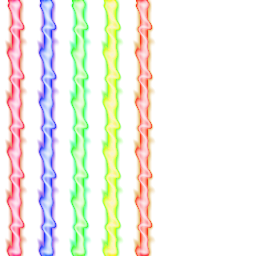
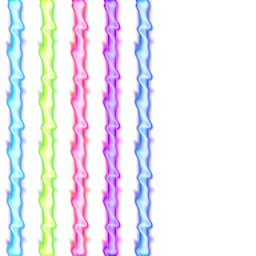
Another Sprite Change for 11

diff --git a/mima/files.js b/mima/files.js
@@ -1,8 +1,9 @@
 {
 	"patch.js": 3616395204,
-	"th11/player/pl01/pl01.png": 1835333719,
-	"th11/player/pl01/pl01b.png": 1172363398,
-	"th11/player/pl01/pl01c.png": 54773464,
+	"th11/player/pl00/pl00c.png": 1970113504,
+	"th11/player/pl01/pl01.png": 169271235,
+	"th11/player/pl01/pl01b.png": 3276522889,
+	"th11/player/pl01/pl01c.png": 2875808866,
 	"th12/face/pl01/face_pl01an.png": 1722571836,
 	"th12/face/pl01/face_pl01dp.png": 2472131179,
 	"th12/face/pl01/face_pl01hp.png": 778493172,
